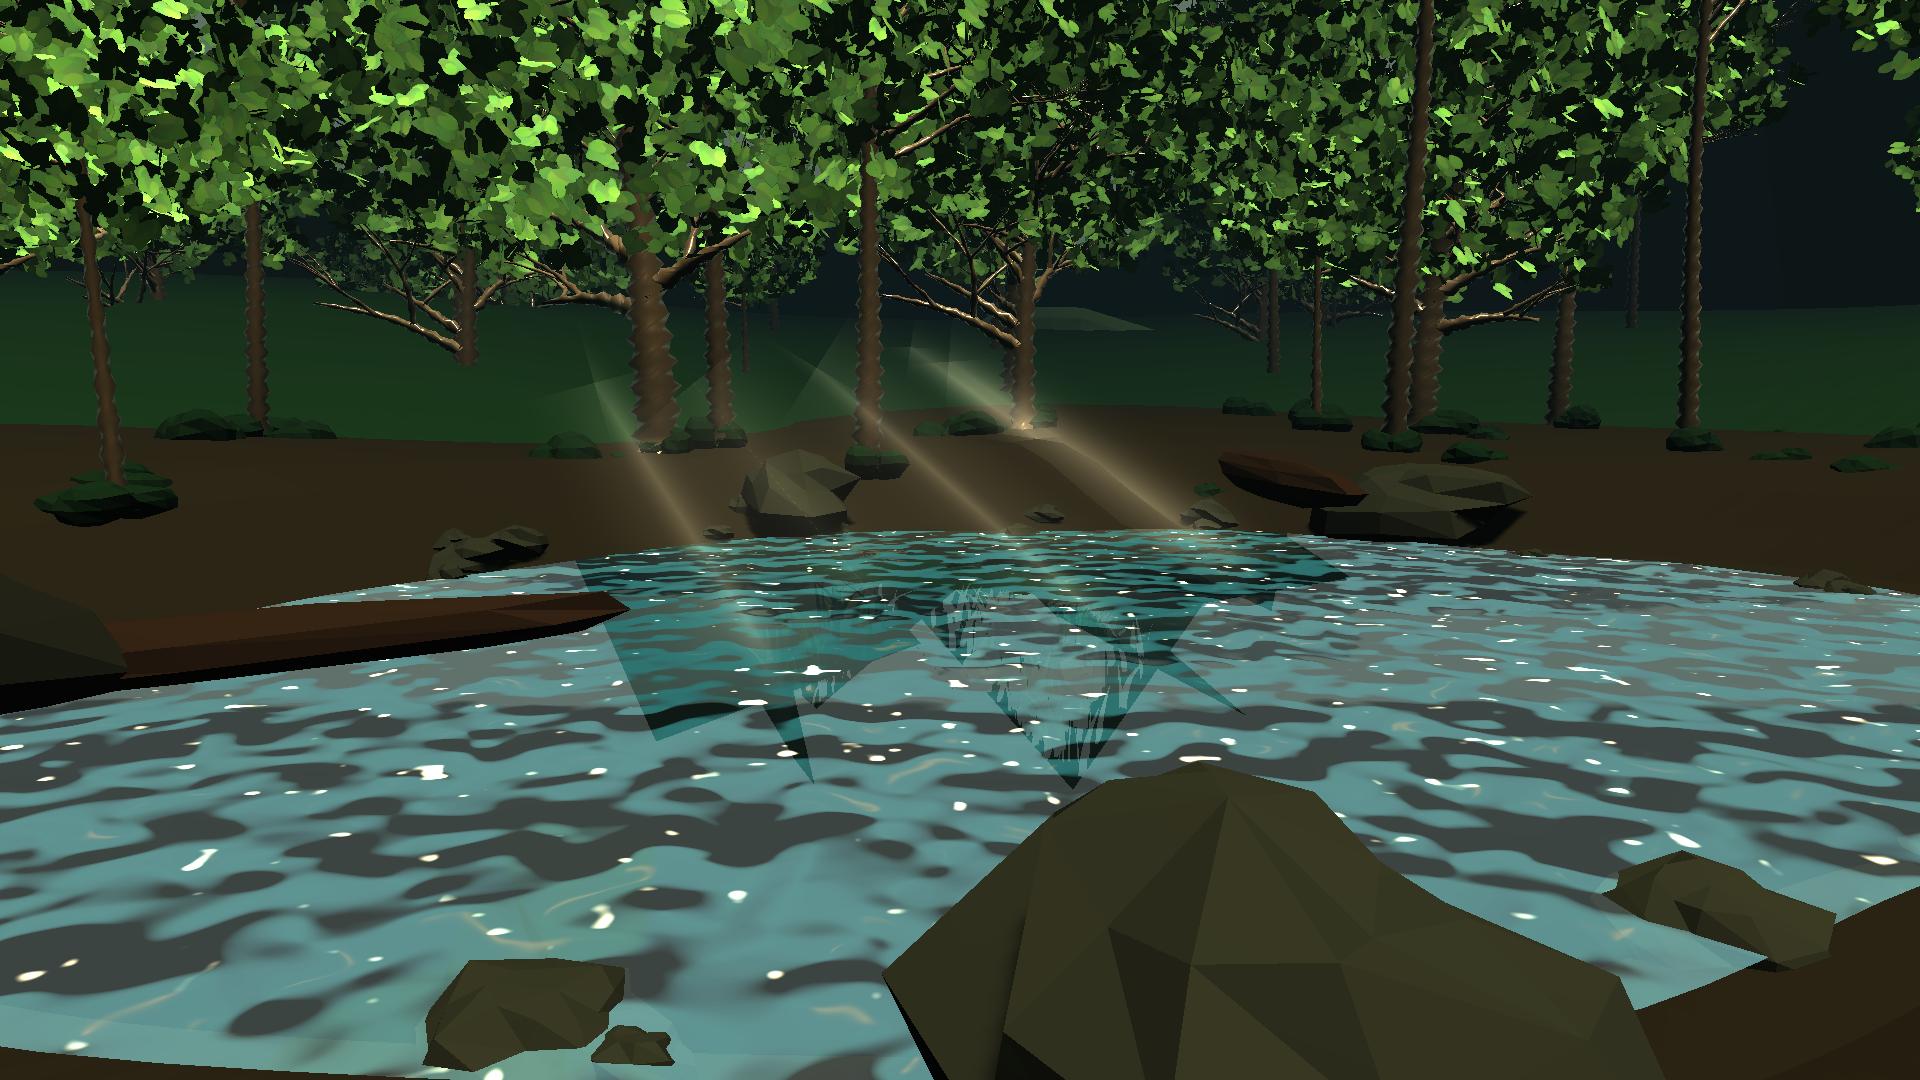
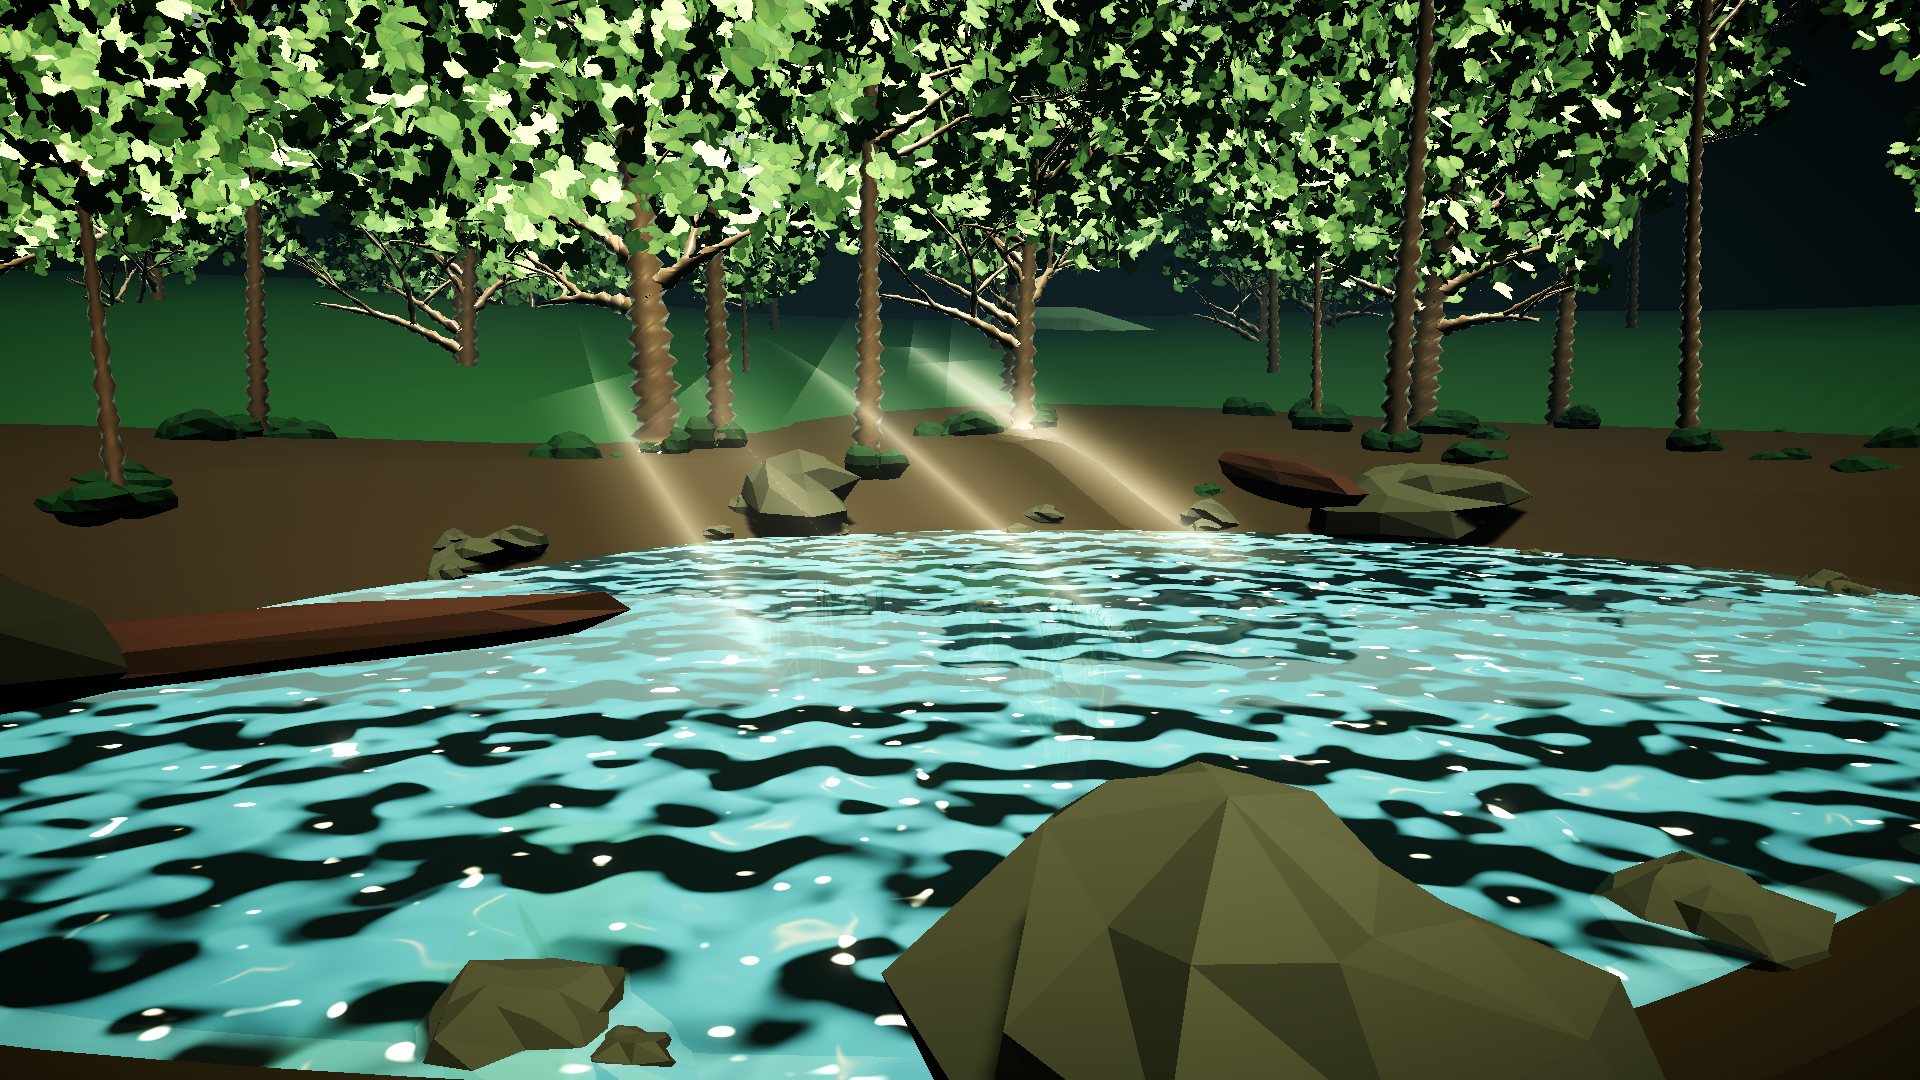
fix(R97): Pond 后处理终于真正生效 + 曝光重标定. ①发现: Pond 相机 renderPostProcessing=False(2台) + Volume 曝光+2.80, 两者互相掩盖 -- 后处理从没生效, 一直显示未经色调映射的裸渲 ②修法不是'开/关二选一'而是开后处理+曝光调回正常: 扫档 +1.0/1.6/2.2/2.8, 采用2.8(对比16/饱和-10) ③Pond 54.2->89.9 亮度, 对比35->68, 近黑21.9->20.3, 爆白0.75 ④AGENTS 补第23条(场景菜单号 121=Ocean/122=Pond/125=探针, 写错静默失

diff --git a/Assets/Editor/R97Setup.cs b/Assets/Editor/R97Setup.cs
@@ -1,0 +1,84 @@
+// R97Setup.cs — R97：Pond 的"后处理开 + 正常曝光"重标定
+//
+// 背景：Pond 的 Volume 曝光被写成 **+2.80**（对比 67.8、饱和 −44.1），
+//   而相机 `renderPostProcessing=False` —— 也就是说这套调色**从来没生效过**，
+//   画面是"裸渲"。R57 曾把后处理打开，结果整屏白（252），于是又关回去。
+//
+// 正确做法不是"要么全关要么白屏"，而是：**开后处理 + 把曝光拉回正常范围**重标定。
+#if UNITY_EDITOR
+using System.IO;
+using UnityEditor;
+using UnityEngine;
+using UnityEngine.Rendering;
+using UnityEngine.Rendering.Universal;
+
+namespace WaterProject.EditorTools
+{
+    public static class R97Setup
+    {
+        static void P(string s)
+            => File.AppendAllText(Path.Combine(Application.dataPath, "../Logs/water_probe.txt"), s);
+
+        static VolumeProfile Profile()
+        {
+            var vols = Object.FindObjectsOfType<Volume>();
+            foreach (var v in vols)
+            {
+                if (v.isGlobal && v.sharedProfile != null) return v.sharedProfile;
+            }
+            return null;
+        }
+
+        static void Grade(float exp, float contrast, float sat, string tag)
+        {
+            var prof = Profile();
+            if (prof == null) { P($"R97/{tag} REFUSED: 没有全局 Volume\n"); return; }
+
+            if (prof.TryGet<ColorAdjustments>(out var ca))
+            {
+                ca.postExposure.value = exp;
+                ca.contrast.value = contrast;
+                ca.saturation.value = sat;
+                EditorUtility.SetDirty(ca);
+            }
+            else { P($"R97/{tag} REFUSED: Volume 没有 ColorAdjustments\n"); return; }
+
+            if (!Application.isPlaying)
+            {
+                // 同时写"场景里那份实例"和"资产"，否则重开场景会被资产覆盖
+                AssetDatabase.SaveAssets();
+            }
+            P($"R97/{tag} 曝光={exp:F2} 对比={contrast:F1} 饱和={sat:F1}（{prof.name}）playing={Application.isPlaying}\n");
+        }
+
+        [MenuItem("Tools/R97/90 曝光+1.0 对比16 饱和-10")]
+        public static void G90() => Grade(1.0f, 16f, -10f, "90");
+
+        [MenuItem("Tools/R97/91 曝光+1.6 对比16 饱和-10")]
+        public static void G91() => Grade(1.6f, 16f, -10f, "91");
+
+        [MenuItem("Tools/R97/92 曝光+2.2 对比16 饱和-10")]
+        public static void G92() => Grade(2.2f, 16f, -10f, "92");
+
+        [MenuItem("Tools/R97/93 曝光+2.8 对比16 饱和-10(旧曝光)")]
+        public static void G93() => Grade(2.8f, 16f, -10f, "93");
+
+        [MenuItem("Tools/R97/94 探针")]
+        public static void Probe()
+        {
+            var prof = Profile();
+            if (prof == null) { P("R97 PROBE 无全局 Volume\n"); return; }
+            string s = $"R97 PROBE {prof.name}";
+            if (prof.TryGet<ColorAdjustments>(out var ca))
+                s += $" exp={ca.postExposure.value:F2} contrast={ca.contrast.value:F1} sat={ca.saturation.value:F1}";
+            var cam = Camera.main;
+            if (cam != null)
+            {
+                var data = cam.GetUniversalAdditionalCameraData();
+                s += $" camPost={(data != null && data.renderPostProcessing)}";
+            }
+            P(s + "\n");
+        }
+    }
+}
+#endif

diff --git a/Docs/学习路径与知识库/检测报告/R56_场景画质与采集口径.md b/Docs/学习路径与知识库/检测报告/R56_场景画质与采集口径.md
@@ -586,3 +586,37 @@ Ocean 现状：**138.5 / 42.3 / 108.5 / 近黑 0.63 / 爆白 0.00**
 ⇒ 代价：整幅亮度 137.5 → 144.9（少了暗斑），沙面偏亮偏平。若要再压，动 `_DryColor` 而不是把颗粒加回去。
 
 Ocean 现状：**144.9 / 46.9 / 104.3 / 近黑 0.87 / 爆白 0.00**。
+
+---
+
+## R97：Pond 的后处理终于"真的在工作了"
+
+### 发现
+Pond 的两件事是绑在一起的、而且是**互相掩盖**的：
+
+| 项 | 值 | 后果 |
+| --- | --- | --- |
+| 相机 `renderPostProcessing` | **False**（2 台相机） | 整条后处理栈（ACES/Bloom/暗角/调色）**从未生效** |
+| Volume 曝光 | **+2.80** | 一旦打开后处理就白屏（R57 的 252 事故），于是当初选择"关掉" |
+
+也就是说：Pond 一直显示的是**未经色调映射的裸渲画面**。
+
+### 修法
+不是"要不开、要不白屏"，而是**开后处理 + 把曝光调回正常范围重标定**。
+用 `Tools/R97/90~93` 扫正曝光档（对比固定 16、饱和 −10）：
+
+| 曝光 | 亮度 | 对比 | 饱和 | 近黑% |
+| --- | --- | --- | --- | --- |
+| +1.0 | 37.1 | 41.8 | 175.9 | 56.7 |
+| +1.6 | 51.8 | 51.3 | 159.8 | 42.3 |
+| +2.2 | 69.9 | 60.8 | 143.8 | 27.6 |
+| **+2.8（采用）** | **89.9** | **68.4** | **128.5** | **20.3** |
+
+Pond：**54.2 → 89.9 亮度**（近黑 21.9% → 20.3%，爆白 0.75%）。
+
+⇒ Pond 从"黄昏森林"变成"白天树荫下的水潭"，且从此和其他场景走同一条后处理管线。
+
+### 顺带记下的两个坑
+- **场景菜单号**：`121` 才是 Ocean、`122` 是 Pond、`125` 是探针不是切场景；
+  桥按全字符串精确匹配，名字写错**静默失败**（AGENTS 第 23 条）。
+- Pond 水面上那几片半透明灰色薄片 = 体积光束的锥体在水面上叠出来的，属体积光的已知表现，未处理。

diff --git a/AGENTS.md b/AGENTS.md
@@ -194,3 +194,16 @@ python Tools/Video/segment_report.py --start 3000 --end 3450 --region sky
     （文件名不同、mtime 也不同，但像素完全一样）。R65/R72 就因此得出了"云参数改了没反应"的错误结论，
     后来用 `_SkyDebug` 直接验证才发现 `_CloudCover 0.3→0.9` 是有变化的。
     **判据**：`np.abs(a-b).sum(2) > 8` 的像素占比必须 > 0 才算"真的换了一帧"。
+
+23. **场景菜单号别凭记忆写**（R97 实测踩了整整一轮）：
+    `120`=Main / **`121`=OceanScene** / **`122`=PondScene** / `123`=PoolScene / `124`=IsletScene / `126`=FFTScene，
+    `125` 是"当前场景(写探针)"**不是**切场景。
+    桥按**全字符串精确匹配**菜单名，名字写错会**静默失败**（脚本里 `| Out-Null` 什么都看不到），
+    于是你以为切到了 Ocean，其实还停在原来那个场景。
+    ⇒ 每次切场景后**必须**先跑 `Tools/Project/125 当前场景(写探针)` 确认 `MENU125 当前场景=xxx`，
+    再去调参数。这一条比"截一张图看看"便宜得多。
+
+24. **Pond 的后处理是"关着的"，且它的 Volume 曝光是 +2.80**：
+    这两件事是绑在一起的 —— 当初把后处理打开就白屏（252），于是选择"关掉后处理裸渲"。
+    正确做法是**开后处理 + 把曝光拉回正常范围**（R97 起用 `Tools/R97/90~93` 扫正曝光档），
+    不要再走"关后处理"这条老路。
